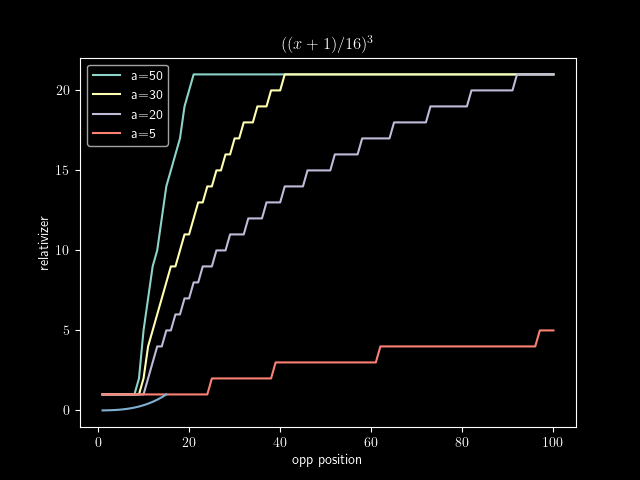
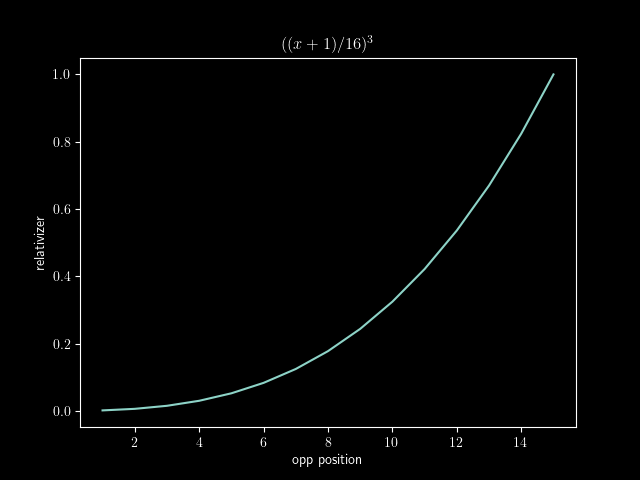
figure

diff --git a/plot.py b/plot.py
@@ -16,6 +16,7 @@ def disp(name):
     plt.savefig(name)
 
 
+plt.figure()
 xx = range(1, 100+1)
 for a in [50, 30, 20, 5]:
   yy = [max(min(round(-1+math.log10(x*.13)*a),21),1) for x in xx]
@@ -26,6 +27,7 @@ plt.legend()
 plt.title(r'$S = \max(\min(\left\lfloor -1+\log(x*.13)*a \right\rceil,21),1)$')
 disp('images/relsteps.png')
 
+plt.figure()
 mx=15+1
 xx = range(1, mx)
 yy = [((x+1)/mx)**3 for x in xx]
